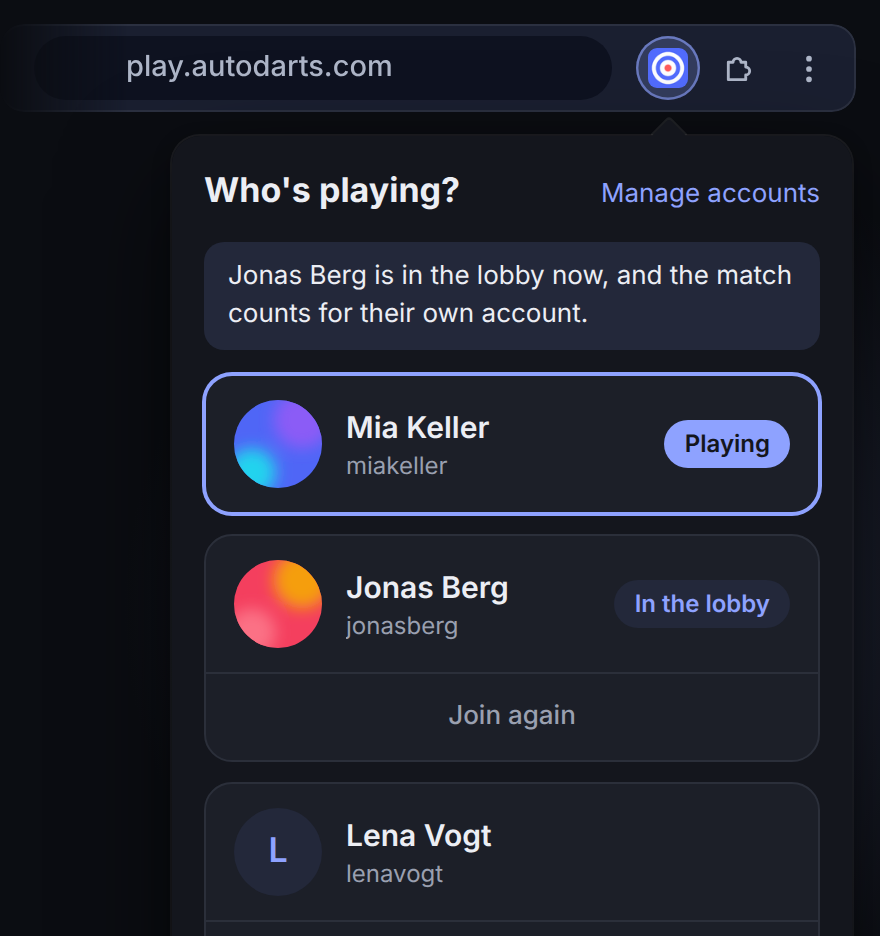
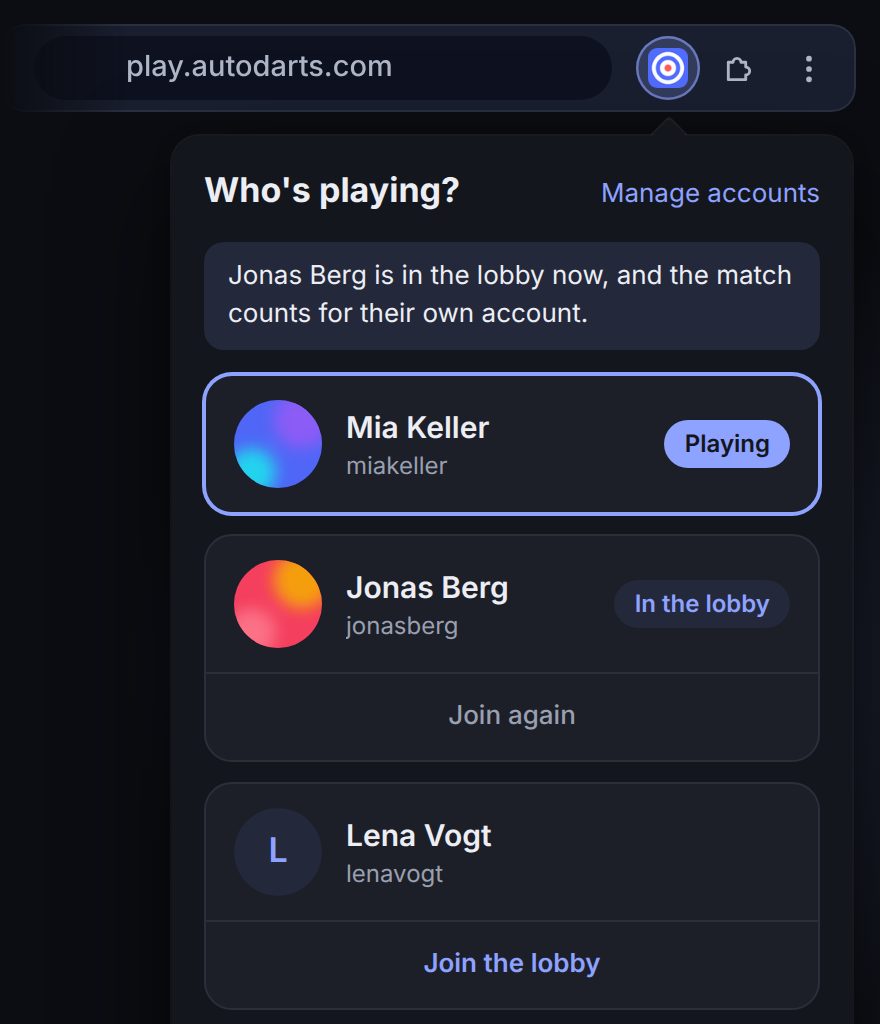
test: keep the third player's whole card in the toolbar picture
The seated tile's "Join again" row pushed Lena Vogt's "Join the lobby" out of
the card of the website and the social preview. The toolbar shot is 44 px taller,
the social preview shows the popup at 1.26 instead of 1.4 times, and CUT_OFF now
measures the third player's whole card, so a cut-off button fails the capture.

diff --git a/.github/social-preview.html b/.github/social-preview.html
@@ -63,12 +63,13 @@ li::before { content: ""; position: absolute; left: 0; top: 11px; width: 12px; h
   background: #14161d; border-radius: 3px 0 0 0;
   box-shadow: -1.5px -1.5px 0 rgba(255, 255, 255, 0.12);
 }
-/* The picture at 0.7 of its size: 1.4 times the popup, whose pixels it has twice. The
+/* The picture at 0.63 of its size: 1.26 times the popup, whose pixels it has twice. The
    margins take away the frame around the popup, 28 pixels of test/harness/stage.css at
    that scale of 2, so the box is the popup and keeps the popup's size. The bottom of the
-   preview cuts off what no longer reads at the size of a link card. */
+   preview cuts off what no longer reads at the size of a link card, below the third
+   player's card and its button. */
 .window {
-  zoom: 0.7; width: fit-content; overflow: hidden; border-radius: 28px;
+  zoom: 0.63; width: fit-content; overflow: hidden; border-radius: 28px;
   box-shadow:
     0 0 0 1.5px rgba(255, 255, 255, 0.12),
     0 40px 100px rgba(0, 0, 0, 0.6),

diff --git a/test/harness/stage.js b/test/harness/stage.js
@@ -8,8 +8,8 @@
 //   layout=promo   the small promo tile of the store
 //   layout=marquee the large promo tile of the store
 //   layout=toolbar the popup on a lobby, as view=lobby shows it, hanging from its icon
-//                  at the right end of a browser's toolbar, cut off below its third
-//                  tile: the picture of the card of the website, in its dark theme
+//                  at the right end of a browser's toolbar, cut off below the card of
+//                  its third player: the picture of the card of the website, dark
 //   lang=en        the language of the extension and of the text around it: a folder of
 //                  extension/_locales, with that text in store/pictures.<lang>.json
 //

diff --git a/test/harness/stage.css b/test/harness/stage.css
@@ -341,7 +341,7 @@ h1 {
 
 /* layout=toolbar: the popup as it opens from its icon, for the card of the website,
    whose pictures are dark: the toolbar has the colors of .github/social-preview.html
-   at the size of a real one, which there is 1.4 times larger with the popup. The
+   at the size of a real one, which there is 1.26 times larger with the popup. The
    bottom of the window of capture.py cuts the popup off below its third tile, as the
    social preview does, where the rest would no longer read on a card. */
 .toolbar {

diff --git a/test/harness/capture.py b/test/harness/capture.py
@@ -50,7 +50,8 @@ CUT_OFF = """() => {
     const hanging = document.querySelector(".hanging");
     if (hanging === null) return false;
     const frame = hanging.querySelector("iframe");
-    const third = frame.contentDocument.querySelectorAll(".tile")[2];
+    // The third player's whole card, with the button below its tile.
+    const third = frame.contentDocument.querySelectorAll(".profile")[2];
     return hanging.getBoundingClientRect().left < 0 || third === undefined
         || frame.getBoundingClientRect().top + third.getBoundingClientRect().bottom
             > innerHeight;
@@ -152,7 +153,7 @@ def shots() -> list[Shot]:
     # as the cards are, and no wider than the popup and the address above it, so that
     # the card shows the popup as large as the height of its picture lets it be.
     for lang, path, dark in variants("popup", "png", schemes=(True,)):
-        found.append(Shot(path, f"layout=toolbar&lang={lang}", 440, 468, 2, dark))
+        found.append(Shot(path, f"layout=toolbar&lang={lang}", 440, 512, 2, dark))
     for lang in store_languages():
         for slide in (1, 2, 3):
             # 1280x800, the size that the Chrome Web Store asks for.
